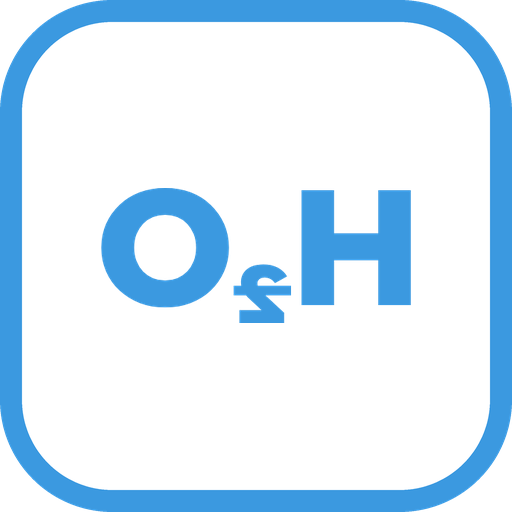
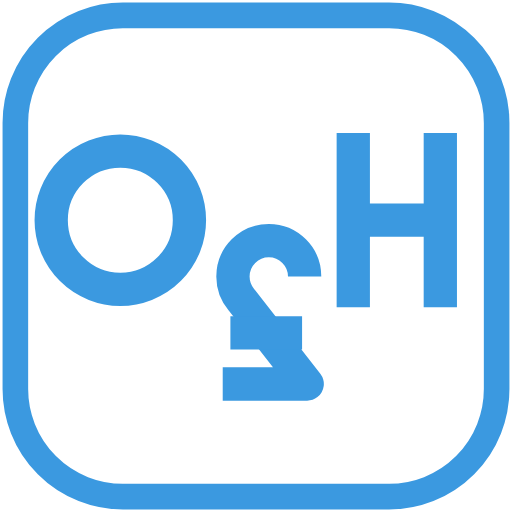
Redraw the OfH mark as an even-stroke SVG and enlarge it on the page
Claude-Session: https://claude.ai/code/session_01MZECRz1zKExAjjwG7KfMTn

Changed region(s): [[0.0, 0.0, 1.0, 1.0]]

diff --git a/hosting.html b/hosting.html
@@ -6,6 +6,7 @@
   <title>ofHuntsville - Free Websites for Huntsville</title>
   <meta name="description" content="Free websites for Huntsville's local businesses, artists and makers, at yourname.ofhuntsville.org.">
   <meta name="robots" content="noindex">
+  <link rel="icon" type="image/svg+xml" href="hosting/ofh-icon.svg">
   <link rel="icon" type="image/png" sizes="32x32" href="hosting/ofh-icon-32.png">
   <link rel="apple-touch-icon" href="hosting/ofh-icon-180.png">
   <link rel="preconnect" href="https://fonts.googleapis.com">
@@ -33,7 +34,8 @@
     .wordmark { font-weight: 800; letter-spacing: -.02em; color: var(--text); text-decoration: none; white-space: nowrap; }
     .wordmark .of { color: var(--blue); font-weight: 600; }
     .wordmark { display: inline-flex; align-items: center; }
-    .wordmark .mark { width: 1.6em; height: 1.6em; margin-right: .4em; display: block; }
+    .wordmark .mark { width: 46px; height: 46px; margin-right: 10px; display: block; }
+    footer .wordmark .mark { width: 56px; height: 56px; }
 
     /* Nav */
     .nav { position: fixed; top: 0; left: 0; right: 0; z-index: 10; background: rgba(255,255,255,.96); box-shadow: 0 0 15px rgba(0,0,0,.08); }
@@ -166,7 +168,7 @@
 <body>
   <nav class="nav">
     <div class="container">
-      <a class="wordmark" href="#top"><img class="mark" src="hosting/ofh-icon-180.png" alt=""><span class="of">of</span>Huntsville</a>
+      <a class="wordmark" href="#top"><img class="mark" src="hosting/ofh-icon.svg" alt=""><span class="of">of</span>Huntsville</a>
       <div class="nav-links">
         <a href="#how" class="hide-sm">How it works</a>
         <a href="#pricing" class="hide-sm">Pricing</a>
@@ -316,7 +318,7 @@
     <div class="container">
       <div class="row">
         <div>
-          <a class="wordmark" href="#top"><img class="mark" src="hosting/ofh-icon-180.png" alt=""><span class="of">of</span>Huntsville</a>
+          <a class="wordmark" href="#top"><img class="mark" src="hosting/ofh-icon.svg" alt=""><span class="of">of</span>Huntsville</a>
           <p class="tag">Websites for the people of Huntsville.</p>
         </div>
         <nav>
